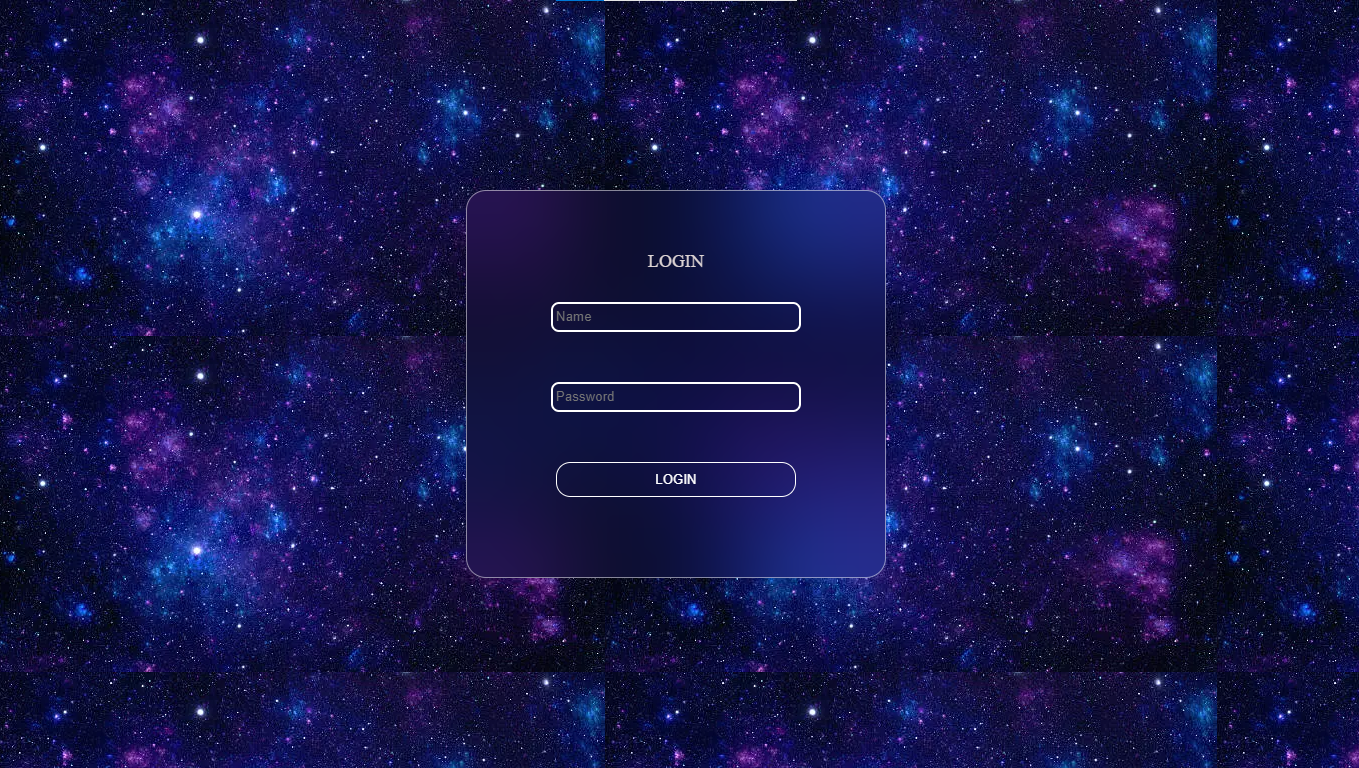
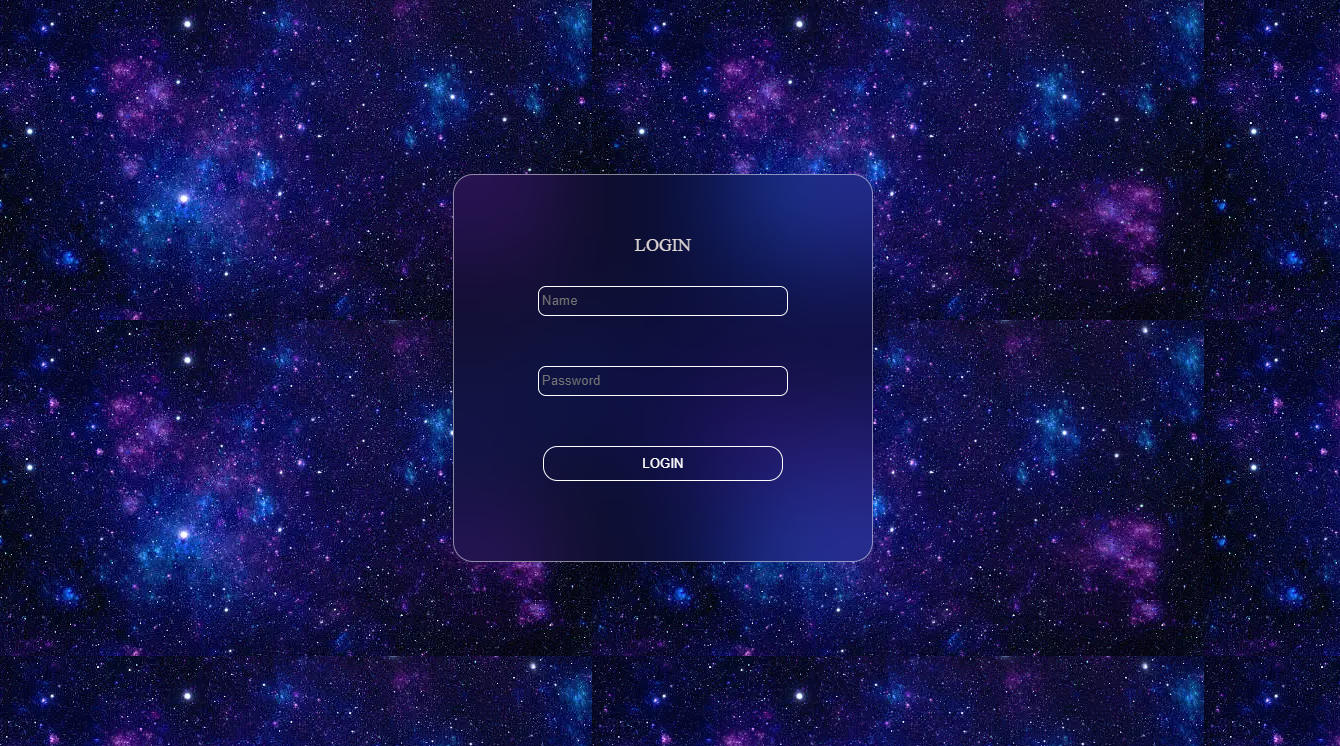
adjustment

diff --git a/style.css b/style.css
@@ -53,7 +53,7 @@ body{
   background-color: transparent;
   color: white;
   padding: 3px;
-  border: 2px solid white ;
+  border: 0.5px solid white ;
   border-radius: 0.5rem;
   margin-left: 5px;
   margin-right: 5px;
